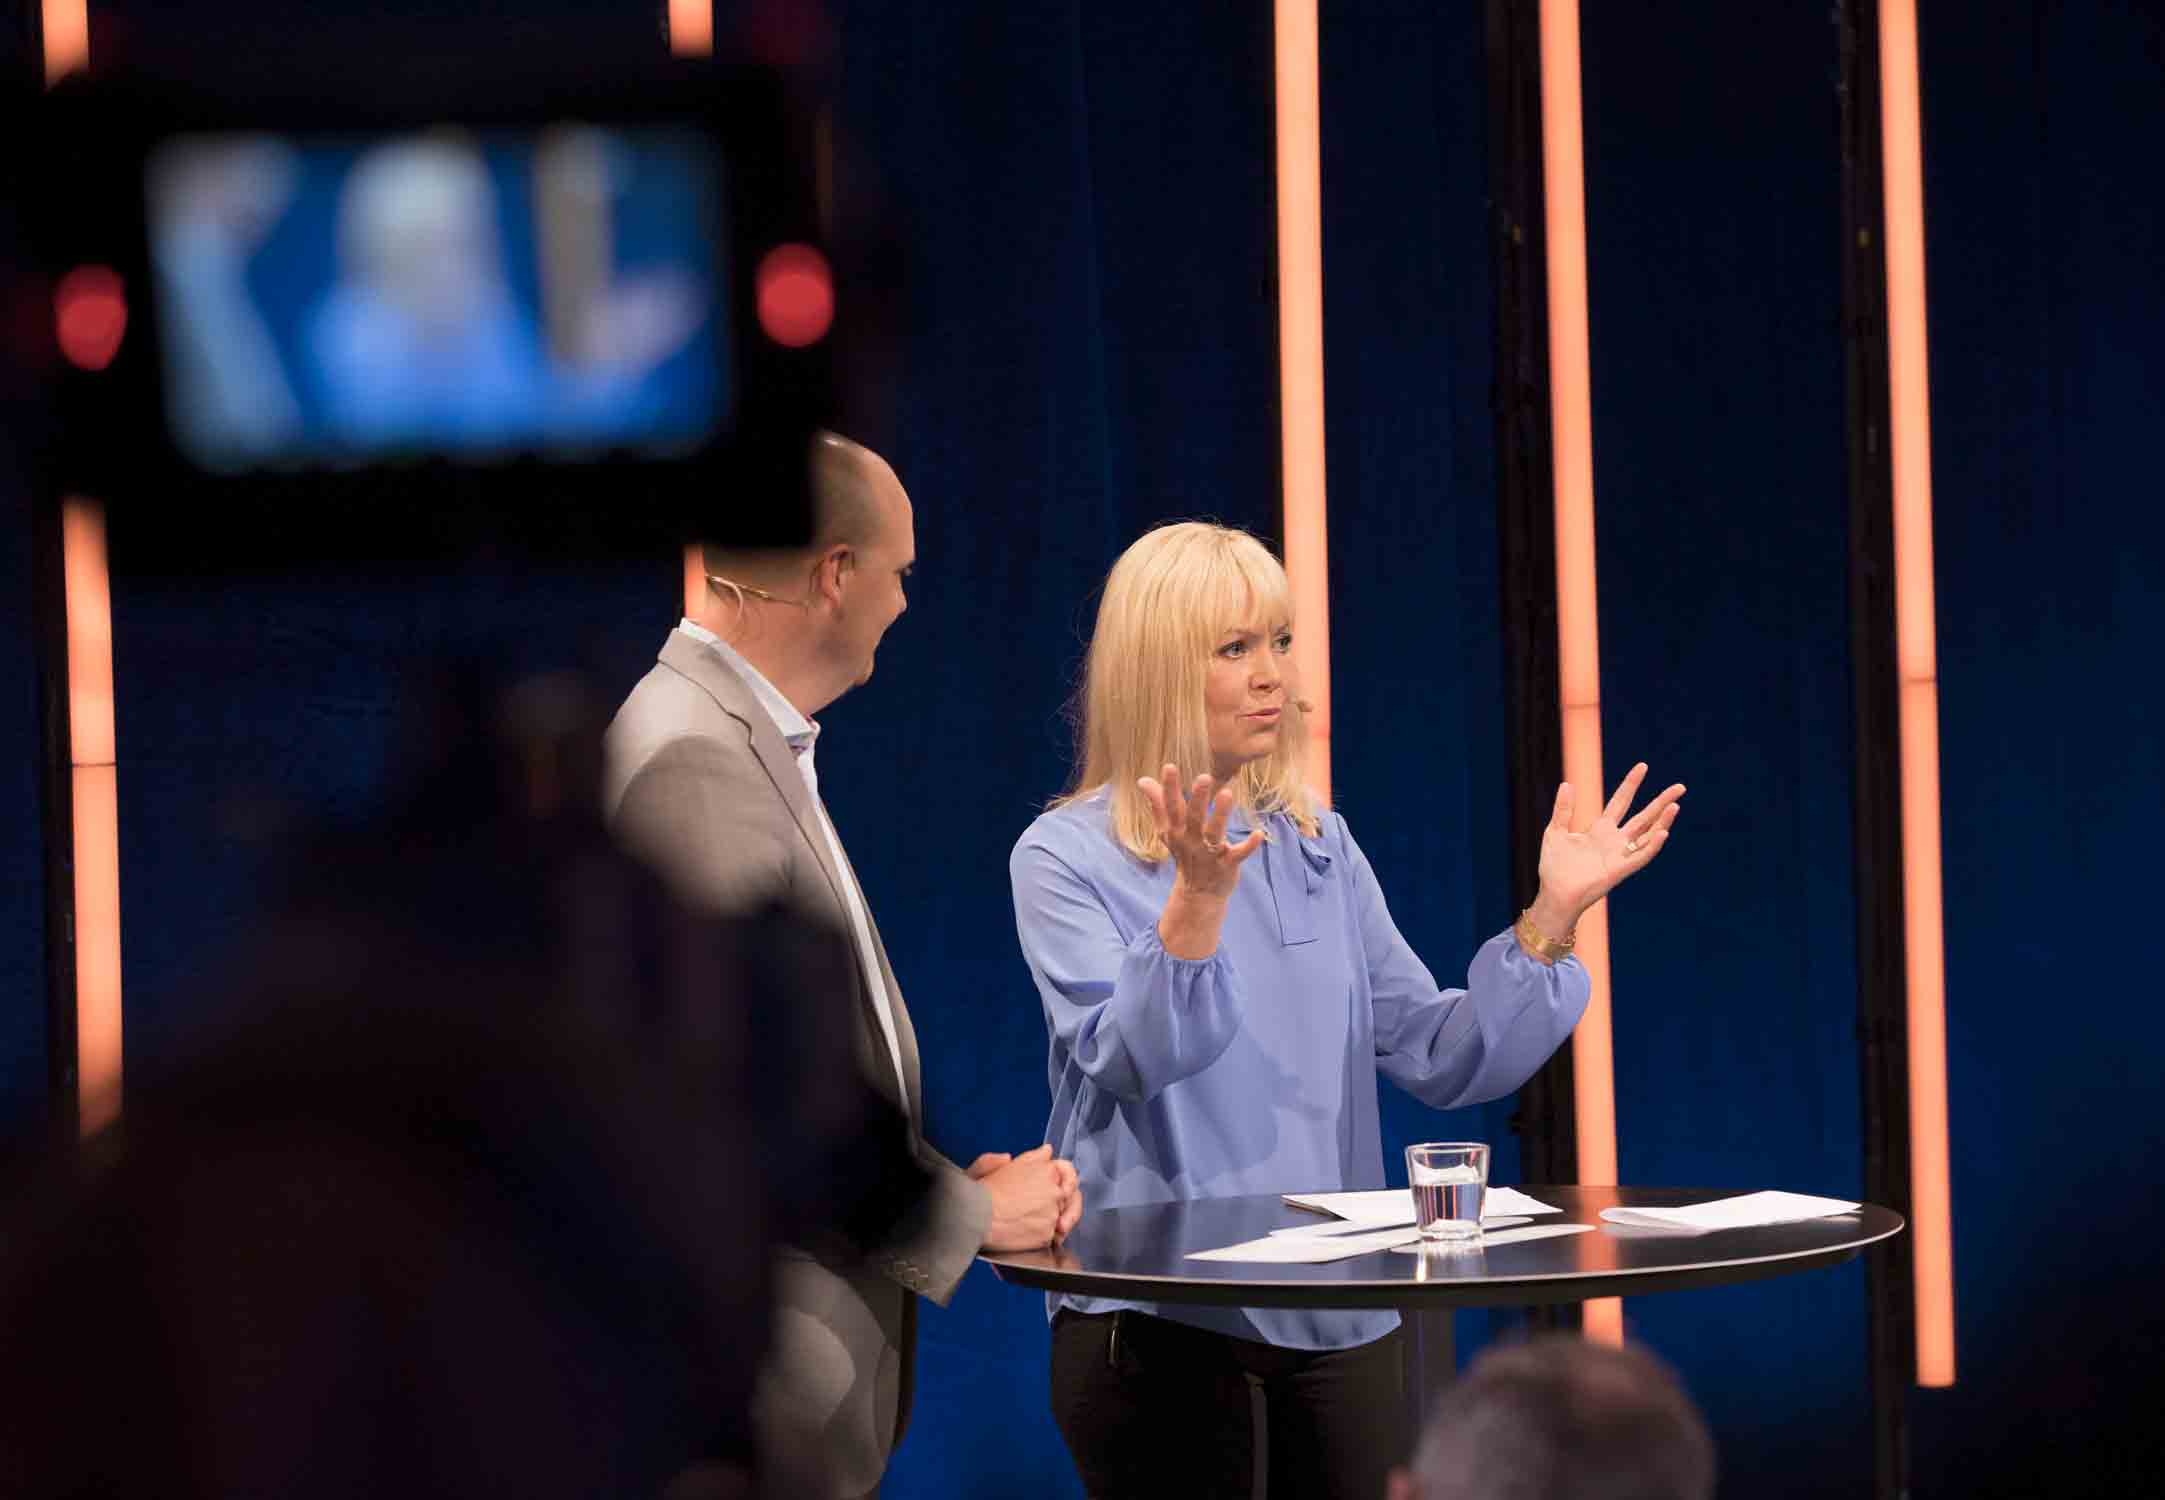
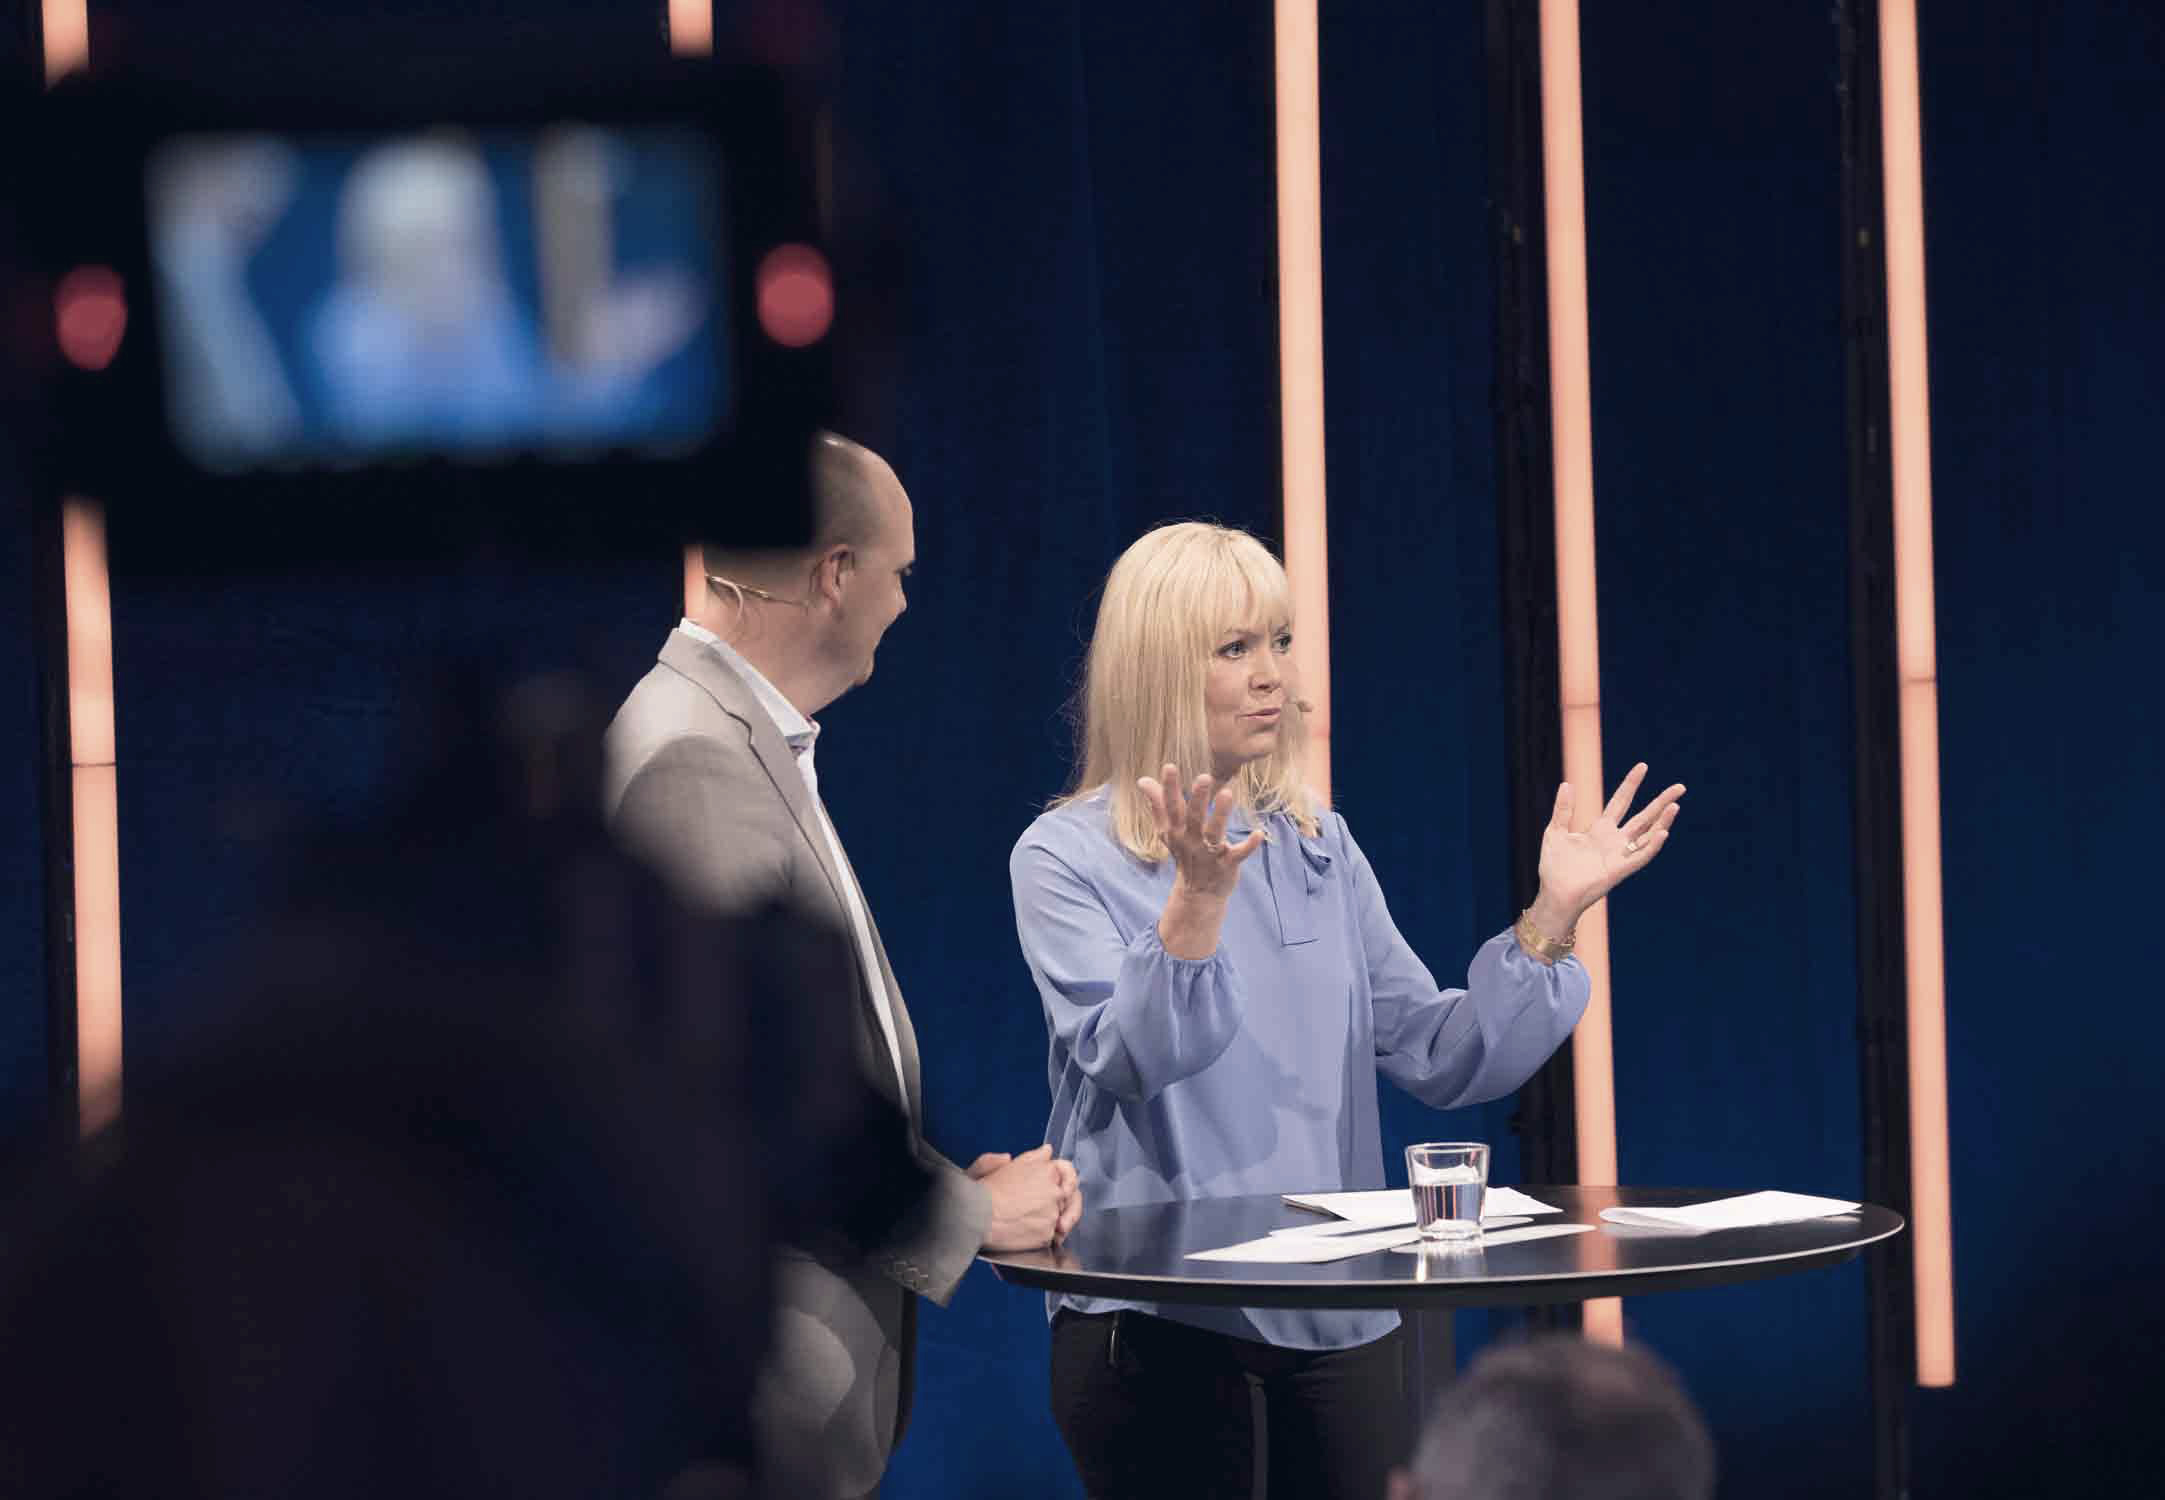
add blue tint to images

diff --git a/src/pages/index.js b/src/pages/index.js
@@ -4,6 +4,7 @@ import Link from 'gatsby-link'
 import graphql from 'graphql'
 import Profilepicture from '../asa_main_profile.jpg'
 import Logotype from './logotype_black.svg'
+import backgroundimg from './reeds1.jpg'
 
 import leadership_icon from './utveckling.svg'
 import chef_icon from './chef.svg'
@@ -14,6 +15,7 @@ const IndexPage = ({ data }) => {
   return (
     <div className="page-content">
       <div className="jumbotron">
+        <img src={backgroundimg}/>
         <h1>Digitalt Ledarskap & Engagerande kommunikation</h1>
       </div>
       <Container>
@@ -28,9 +30,9 @@ const IndexPage = ({ data }) => {
       </Container>
       <div className="container-fluid services-section">
       <Container>
-        <h2>Tjänster</h2>
+        <h2 className="display-4">Tjänster</h2>
         <div className="row">
-          <div className="col-xs-12 col-sm-6 col-md-6 mt-5">
+          <div className="col-xs-12 col-sm-6 col-md-6 mt-4">
             <div className="card p-4 text-center">
               <img className="card-icon mt-3 mb-4" src={leadership_icon} alt="Created by Massupa  Kaewgahya"/>
               <h4>Ledarskapsutveckling</h4>
@@ -42,7 +44,7 @@ const IndexPage = ({ data }) => {
               <p>Inspirera och engagera din publik inom områdena digitalt ledarskap, kommunikation och förändring</p>
             </div>
           </div>
-          <div className="col-xs-12 col-sm-6 col-md-6 mt-5">
+          <div className="col-xs-12 col-sm-6 col-md-6 mt-4">
             <div className="card p-4 text-center">
               <img className="card-icon mt-3 mb-4" src={organisation_icon} alt="Created by Massupa  Kaewgahya"/>
               <h4>Kommunikation</h4>

diff --git a/src/layouts/index.scss b/src/layouts/index.scss
@@ -275,15 +275,34 @@ $padding-lg: 20px;
   }
   .jumbotron {
     height: 90vh;
+    position: relative;
     margin-top: -200px;
-    background: #585858;
+    background: #aaa;
     display: flex;
     align-items: center;
     justify-content: center;
+    overflow: hidden;
+    padding-top: 100px;
     h1 {
       color: white;
       border-left: 4px solid #fa8f2d;
       padding-left: $padding-md;
+      z-index: 10;
+    }
+
+    img {
+      position: absolute;
+      top: 0;
+      left: 0;
+      height: 100%;
+      width: auto;
+      z-index: 1;
+    }
+    .container {
+      height: 100%;
+      display: flex;
+      align-items: center;
+      z-index: 8;
     }
   }
   .intro-text {
@@ -296,6 +315,7 @@ $padding-lg: 20px;
     background: $color-main-blue;
     h2 {
       color: $color-main-orange;
+      margin-bottom: 40px;
     }
     .card {
       border-color: #eee;
@@ -480,6 +500,7 @@ $padding-lg: 20px;
         max-width: unset;
       }
     }
+
   }
 }
 @include media-breakpoint-up(md) {
@@ -487,6 +508,16 @@ $padding-lg: 20px;
     .heading-container {
       img {
         top: -100px;
+      }
+    }
+  }
+}
+@include media-breakpoint-up(lg) {
+  .App {
+    .jumbotron {
+      img {
+        width: 100%;
+        height: auto;
       }
     }
   }

diff --git a/src/templates/services.js b/src/templates/services.js
@@ -3,6 +3,7 @@ import { Container } from 'reactstrap'
 import Helmet from 'react-helmet'
 import graphql from 'graphql'
 import backgroundimg from '../asa_moderator.jpg'
+import Link from 'gatsby-link'
 
 export default function Template ({ data }) {
   const { markdownRemark: post } = data
@@ -16,6 +17,9 @@ export default function Template ({ data }) {
           </Container>
         </div>
       <Container className="content-rich-page services" dangerouslySetInnerHTML={{ __html: post.html }} />
+        <div className="container col-12 mt-5 pt-5 text-center">
+          <Link to='/services' className="col-12 main-button inverted">Läs mer →</Link>
+        </div>
     </div>
   )
 }
